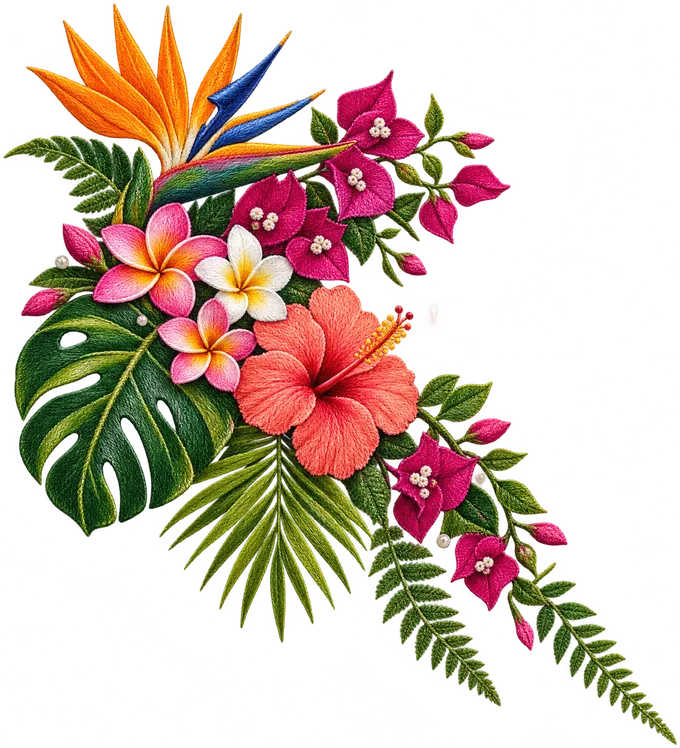
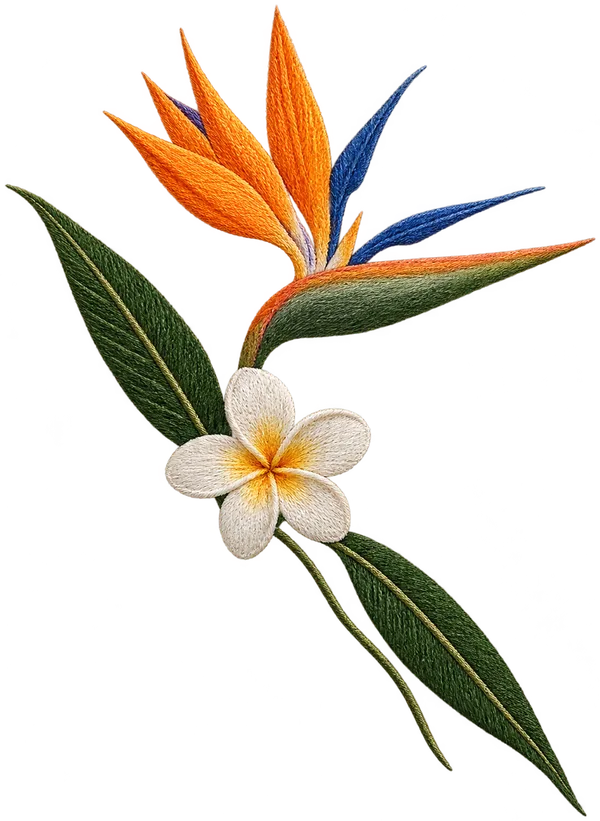
Subtler flowers throughout
Every floral piece redrawn with one to three blooms, slender stems and
plenty of empty space: the cover arch, corner sprigs, side vines,
envelope sprig, stamp, liner, cake, gramophone and bedside vase.
version_assets.py now also syncs each image's width and height.

diff --git a/index.html b/index.html
@@ -14,7 +14,7 @@
 <meta property="og:url" content="https://benrodrigues05.github.io/rodrigues-wedding/">
 <meta property="og:title" content="Benjamin &amp; Talisha are getting married">
 <meta property="og:description" content="Saturday 6 March 2027 · Collisheen Estate, Ballito. Tap to open your invitation.">
-<meta property="og:image" content="https://benrodrigues05.github.io/rodrigues-wedding/assets/og.jpg?v=b39ef718">
+<meta property="og:image" content="https://benrodrigues05.github.io/rodrigues-wedding/assets/og.jpg?v=3ebeaa2f">
 <meta property="og:image:width" content="1200">
 <meta property="og:image:height" content="630">
 <meta name="twitter:card" content="summary_large_image">
@@ -25,8 +25,8 @@
 <link rel="preconnect" href="https://fonts.gstatic.com" crossorigin>
 <link rel="stylesheet" href="https://fonts.googleapis.com/css2?family=Pinyon+Script&amp;display=block">
 <link rel="stylesheet" href="https://fonts.googleapis.com/css2?family=Cormorant+Garamond:ital,wght@0,400;0,500;0,600;1,400;1,500&amp;display=swap">
-<link rel="preload" as="image" href="assets/hero-arch.webp?v=2796157a" type="image/webp">
-<link rel="stylesheet" href="styles.css?v=691ed3bb">
+<link rel="preload" as="image" href="assets/hero-arch.webp?v=c3e23fb2" type="image/webp">
+<link rel="stylesheet" href="styles.css?v=4a9dcc30">
 <script>
   /* Show the envelope only when JavaScript is running. If script.js?v=0f5ac863 fails to
      load or errors, the invitation is revealed instead of staying sealed. */
@@ -47,8 +47,8 @@
 <!-- ============ THE ENVELOPE (shown first, opened by script.js?v=0f5ac863) ============ -->
 <div class="scene" id="scene">
   <div class="scene-vignette" id="scene-vignette"></div>
-  <img class="scene-sprig scene-sprig--top" src="assets/coastal-corner.webp?v=c77b0b40" width="640" height="667" alt="">
-  <img class="scene-sprig scene-sprig--bottom" src="assets/coastal-spray.webp?v=dd65c2da" width="680" height="748" alt="">
+  <img class="scene-sprig scene-sprig--top" src="assets/coastal-corner.webp?v=b234eb41" width="600" height="652" alt="">
+  <img class="scene-sprig scene-sprig--bottom" src="assets/coastal-spray.webp?v=30b27298" width="600" height="821" alt="">
 
   <div class="envelope" id="envelope" aria-hidden="true">
     <div class="env-back is-hidden" id="env-back">
@@ -78,7 +78,7 @@
     </div>
 
     <div class="env-front" id="env-front">
-      <img class="env-stamp" src="assets/stamp.webp?v=ea42b23d" width="300" height="398" alt="">
+      <img class="env-stamp" src="assets/stamp.webp?v=bd9901a7" width="300" height="409" alt="">
       <svg class="env-postmark" viewBox="0 0 200 80" focusable="false">
         <defs>
           <path id="pm-top" d="M 13 40 A 27 27 0 0 1 67 40"/>
@@ -106,7 +106,7 @@
         </g>
       </svg>
       <p class="env-to"><span class="env-recipient" id="recipient">To our favourite people</span></p>
-      <img class="env-sprig" src="assets/coastal-sprig.webp?v=4014f4d6" width="720" height="501" alt="">
+      <img class="env-sprig" src="assets/coastal-sprig.webp?v=27c94e73" width="640" height="514" alt="">
     </div>
   </div>
 
@@ -119,8 +119,8 @@
 <!-- Wide screens only: the same sprigs as on the envelope's table, so the
      page keeps the setting once the letter is open. -->
 <div class="table-decor" id="table-decor" aria-hidden="true">
-  <img class="table-sprig table-sprig--top" src="assets/coastal-corner.webp?v=c77b0b40" width="640" height="667" alt="">
-  <img class="table-sprig table-sprig--bottom" src="assets/coastal-spray.webp?v=dd65c2da" width="680" height="748" alt="">
+  <img class="table-sprig table-sprig--top" src="assets/coastal-corner.webp?v=b234eb41" width="600" height="652" alt="">
+  <img class="table-sprig table-sprig--bottom" src="assets/coastal-spray.webp?v=30b27298" width="600" height="821" alt="">
 </div>
 
 <main class="suite" id="invitation">
@@ -129,7 +129,7 @@
   <header class="hero" id="top">
     <article class="hero-card" id="hero-card" tabindex="-1">
       <p class="eyebrow">The wedding of</p>
-      <img class="hero-arch" src="assets/hero-arch.webp?v=2796157a" width="974" height="1499" alt="Benjamin and Talisha in a black-and-white photograph, framed by an embroidered stone arch of bougainvillea, hibiscus and frangipani">
+      <img class="hero-arch" src="assets/hero-arch.webp?v=c3e23fb2" width="935" height="1483" alt="Benjamin and Talisha in a black-and-white photograph, framed by an embroidered stone arch of bougainvillea, hibiscus and frangipani">
       <h1 class="names">Benjamin <span class="amp">&amp;</span> Talisha</h1>
       <p class="hero-date">Saturday · 6 March 2027</p>
       <p class="hero-place">Collisheen Estate · Ballito</p>
@@ -139,8 +139,8 @@
 
   <!-- ============ 2. INVITATION + COUNTDOWN ============ -->
   <section class="families" id="invite" aria-labelledby="invite-title">
-    <img class="garland garland--left" src="assets/coastal-garland.webp?v=bdf24664" width="327" height="1200" alt="" loading="lazy" decoding="async">
-    <img class="garland garland--right" src="assets/coastal-garland.webp?v=bdf24664" width="327" height="1200" alt="" loading="lazy" decoding="async">
+    <img class="garland garland--left" src="assets/coastal-garland.webp?v=33c58f59" width="167" height="1200" alt="" loading="lazy" decoding="async">
+    <img class="garland garland--right" src="assets/coastal-garland.webp?v=33c58f59" width="167" height="1200" alt="" loading="lazy" decoding="async">
 
     <h2 class="script-title" id="invite-title">Please join us</h2>
     <p class="lede invite-lede">as we say &ldquo;I do&rdquo; in a little chapel among the trees</p>
@@ -184,7 +184,7 @@
   <!-- ============ 4. THE DETAILS: the running order (striped linen) ============ -->
   <section class="details" id="details" aria-labelledby="details-title">
     <div class="details-panel">
-      <img class="motif details-tl" src="assets/coastal-spray.webp?v=dd65c2da" width="680" height="748" alt="" loading="lazy" decoding="async">
+      <img class="motif details-tl" src="assets/coastal-spray.webp?v=30b27298" width="600" height="821" alt="" loading="lazy" decoding="async">
       <img class="motif details-tr" src="assets/lanterns.webp?v=c26fea3b" width="434" height="640" alt="" loading="lazy" decoding="async">
       <h2 class="script-title details-title" id="details-title">The Details</h2>
 
@@ -212,7 +212,7 @@
       </ol>
 
       <img class="motif details-bl" src="assets/champagne.webp?v=5cf81765" width="520" height="579" alt="" loading="lazy" decoding="async">
-      <img class="motif details-br" src="assets/cake.webp?v=f2ed0869" width="385" height="640" alt="" loading="lazy" decoding="async">
+      <img class="motif details-br" src="assets/cake.webp?v=a040beea" width="383" height="640" alt="" loading="lazy" decoding="async">
     </div>
   </section>
 
@@ -221,8 +221,8 @@
   <section class="dress" id="dress-code" aria-labelledby="dress-title">
     <div class="napkin">
       <div class="napkin-sprigs">
-        <img class="motif" src="assets/coastal-corner.webp?v=c77b0b40" width="640" height="667" alt="" loading="lazy" decoding="async">
-        <img class="motif" src="assets/coastal-sprig.webp?v=4014f4d6" width="720" height="501" alt="" loading="lazy" decoding="async">
+        <img class="motif" src="assets/coastal-corner.webp?v=b234eb41" width="600" height="652" alt="" loading="lazy" decoding="async">
+        <img class="motif" src="assets/coastal-sprig.webp?v=27c94e73" width="640" height="514" alt="" loading="lazy" decoding="async">
       </div>
       <img class="motif guests" src="assets/guests.webp?v=6ffe99b5" width="1100" height="697" alt="Embroidered guests in terracotta, orange, marigold, chartreuse, fuchsia and plum gowns, and sand and forest-green suits" loading="lazy" decoding="async">
       <h2 class="script-title" id="dress-title">Dress Code</h2>
@@ -240,7 +240,7 @@
 
   <!-- ============ 6. WHERE TO STAY ============ -->
   <section class="stay" id="stay" aria-labelledby="stay-title">
-    <img class="motif nightstand" src="assets/nightstand.webp?v=538ce414" width="295" height="480" alt="" loading="lazy" decoding="async">
+    <img class="motif nightstand" src="assets/nightstand.webp?v=cc990385" width="251" height="480" alt="" loading="lazy" decoding="async">
     <h2 class="script-title" id="stay-title">Where to Stay</h2>
     <p class="caps">Good-value stays near Ballito Junction</p>
     <p class="lede">Ballito Junction is a short drive from the venue, with plenty of places to eat nearby. A few of our picks:</p>
@@ -288,7 +288,7 @@
   <!-- ============ 8. RSVP (reply card) ============ -->
   <section class="rsvp" id="rsvp" aria-labelledby="rsvp-title">
     <div class="reply-card">
-      <img class="reply-stamp" src="assets/stamp.webp?v=ea42b23d" width="300" height="398" alt="" loading="lazy" decoding="async">
+      <img class="reply-stamp" src="assets/stamp.webp?v=bd9901a7" width="300" height="409" alt="" loading="lazy" decoding="async">
       <h2 class="script-title" id="rsvp-title">Kindly Reply</h2>
       <p class="reply-by">by 1 December 2026</p>
       <p class="reply-note">One reply covers everyone your invitation is addressed to.</p>
@@ -351,7 +351,7 @@
   <!-- ============ 9. THE PLAYLIST (fringed napkin) ============ -->
   <section class="playlist" id="playlist" aria-labelledby="playlist-title">
     <div class="napkin napkin--playlist">
-      <img class="motif gramophone" src="assets/gramophone.webp?v=53620f89" width="640" height="762" alt="" loading="lazy" decoding="async">
+      <img class="motif gramophone" src="assets/gramophone.webp?v=2d4e3658" width="640" height="900" alt="" loading="lazy" decoding="async">
       <h2 class="script-title" id="playlist-title">The Playlist</h2>
       <p class="lede">Which songs get you on the dance floor? Suggest one or two for our wedding playlist.</p>
 

diff --git a/styles.css b/styles.css
@@ -187,7 +187,7 @@ html.js:not(.is-open) body { overflow: hidden; }
   position: absolute;
   inset: 5% 4.5% 0;
   border-radius: 2px 2px 0 0;
-  background: url("assets/liner.webp?v=797885ae") 50% 0 / 150px 150px;
+  background: url("assets/liner.webp?v=ed8e408a") 50% 0 / 150px 150px;
 }
 .env-wall::after {            /* shadow inside the envelope's mouth */
   content: "";
@@ -221,7 +221,7 @@ html.js:not(.is-open) body { overflow: hidden; }
 .flap-paper,
 .flap-liner { position: absolute; inset: 0; }
 .flap-paper { clip-path: polygon(0 0, 100% 0, 50% 100%); background: #E7DFD0; }
-.flap-liner { clip-path: polygon(5.5% 0, 94.5% 0, 50% 90%); background: url("assets/liner.webp?v=797885ae") 50% 0 / 150px 150px; }
+.flap-liner { clip-path: polygon(5.5% 0, 94.5% 0, 50% 90%); background: url("assets/liner.webp?v=ed8e408a") 50% 0 / 150px 150px; }
 
 .env-seal {
   position: absolute;
